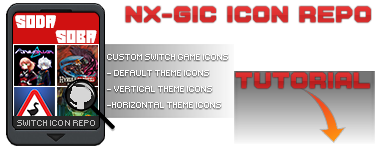
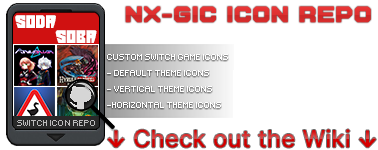
wiki & README updated

Changed region(s): [[0.2619, 0.4533, 1.0, 1.0]]

diff --git a/README.md b/README.md
@@ -1,317 +1,3 @@
-![Header](<.screenshots/header.jpg>)
-### Written for nx-gic v1.3.0 ###
+![Header](<.screenshots/SIG1.png>)
 
-:memo: to use this repo correctly you will need to preapare your switch first :memo:
-
-:heavy_check_mark: this entire guide and process only works on atmosphere
-
-:x: sxos will not work :x:
-
-***
-
-**Prerequisite** items recommended for this tutorial:
-
- * Nintendo Switch :video_game:
-   * :one: [Atmosphere](https://github.com/Atmosphere-NX/Atmosphere) -CFW 
-   * :two: [switch-sys-tweak](https://gbatemp.net/threads/custom-game-icons-tutorial-and-sharing-hub-no-forwarders.574675/) -cfw sysmodule/homebrew 
-   * :three: [ftpd](https://github.com/mtheall/ftpd/releases/) -nro/homebrew 
-   * :four: [NXThemesInstaller](https://github.com/exelix11/SwitchThemeInjector/releases/) -nro/homebrew 
-   * :five: [Vertical/Horizontal Theme](https://github.com/hotshotz79/NX-Custom-Game-Icons) -NXTheme/homebrew theme file(s)
-		* :arrow_right_hook: [my vertical themes](https://github.com/sodasoba1/nx-vertical-themes) -optional
-   * :six: [nx-titles-list-dumper](https://github.com/HamletDuFromage/nx-titles-list-dumper/releases) -nro/homebrew (*Pulled with nc-gix 1.3.0*)
- * PC :computer:
-   * :one: [NX-GIC](https://github.com/hotshotz79/NX-Game-Icon-Customizer) -Icon Repo & Transfer tool
-     * :arrow_right_hook: FTP
-	 >![titledump](<.screenshots/nx-gic-rel.png>)
-	 >
-	 >:left_speech_bubble:winSCP is bundled with NXGIC
-
-   
-***
-
-I recommend using the ftp method over mtp as i personally find ftp to be faster, especially when you are bulk transferring custom icons, so that's the method I will be outlining in this tutorial.
-
-Firstly grab [ftpd.nro](https://github.com/mtheall/ftpd/releases/) & [NXThemesInstaller.nro](https://github.com/exelix11/SwitchThemeInjector/releases/download/v-4.6/NXThemesInstaller.nro) and place the nro(s) into `SD:/switch/` both of these are available on the _homebrew appstore!_
-
-![AppStore](<.screenshots/appstore.jpg>)
-
-**atmosphere 0.19.0 a lot changed follow these steps**
-Grab [switch-sys-tweak](https://github.com/p-sam/switch-sys-tweak/actions) - the latest build is usually in `AMS X.XX.X git pull`
-You need to rename the *[sys-tweak.nsp](https://github.com/p-sam/switch-sys-tweak/actions)* to `exefs.nsp` and set up a *[toolbox.json](/setup-00FF747765616BFF.zip)* with the following contents:
-
-`SD:/atmosphere/contents/00FF747765616BFF/toolbox.json`
-
-```
-{
-  "name": "sys-tweak",
-  "tid": "00FF747765616BFF",
-  "requires_reboot": true
-}
-```
->`SD:/atmosphere/contents/00FF747765616BFF/flags/boot2.flag` -empty file
-
-Once you've done that create this folder and contents on your SD card:
-```
-atmosphere/
-    ˪ contents/
-       ˪ 00FF747765616BFF/
-              ˪ flags/
-                  ˪ boot2.flag
-       ˪ exefs.nsp
-       ˪ toolbox.json
-```
-
-I have the toolbox.json & boot.flag pre setup *[here](/setup-00FF747765616BFF.zip)* just copy the contents to the `root` of your sd card `SD:/`
-you will still need to download and to rename the *[sys-tweak.nsp](https://github.com/p-sam/switch-sys-tweak/actions)* to `exefs.nsp`
-
-***
-
-**atmosphere 0.18.0**
-a pre compiled version can be found on GBATEMP to get custom icons working you will need [switch-sys-tweak](https://gbatemp.net/threads/custom-game-icons-tutorial-and-sharing-hub-no-forwarders.574675/page-10#post-9366960) `NSAM` seems to work better if that crashes try the other version
-
-once you have the precompiled sys-tweak place the contents of the archive into 
-```SD:/atmosphere/contents/```
-the folder ```00FF747765616BFF``` should transfer over & look like similar to this:
-
-![SD-contents](<.screenshots/sdcontents1.png>)
->
->`SD:/atmosphere/contents/00FF747765616BFF`
-
-
-***
-
-Grab a horizontal or vertical theme from [Hotshotz79 Custom Game Icons repo](https://github.com/hotshotz79/NX-Custom-Game-Icons) 
- > :arrow_right_hook: or you can use mine [my vertical themes](https://github.com/sodasoba1/nx-vertical-themes)
-
-__vertical__ or __horizontal__
-
-* all - all software screen
-* lock - lockscreen
-* home - homescreen
-
->:left_speech_bubble: I recommend grabbing all 3 types for either theme
-***
-
-make a folder on the `root` of your SD card called ```themes``` if it doesn't already exist
-
-place the 3 ```.nxtheme``` in this folder.
-
-![SD-contents](<.screenshots/sdcontents2.png>)
->
->`SD:/themes`
-
-now launch NXThemes Installer from hbmenu
-
-![SD-contents](<.screenshots/nxthemeinst.jpg>)
-
-follow the setup instructions, *you may need to extract the home menu before being able to install themes*
-
-click ```sdmc:/atmosphere/``` if you have multipleCFW installed
-
-![NXThemes](<.screenshots/nxtheme.jpg>)
-
-Select the theme(s) you want to install
-
-![NXThemes](<.screenshots/nxtheme2.jpg>)
-
-once you've installed the theme(s) you will need to reboot.
-
-![NXThemes](<.screenshots/nxtheme3.jpg>)
-
-congratulations you have now installed the theme(s) now we can start selecting custom icons
-if you haven't already downloaded [NX-GIC](https://github.com/hotshotz79/NX-Game-Icon-Customizer) do that now and we will begin the next step.
-
-***
-
-When you first launch the program you will need to ```scan``` so you can pull the icon repos, there is also an offline method but I won't be going into that here.
-
-![nxgic](<.screenshots/nx-gic.png>)
->:left_speech_bubble: this part will take a while as it's grabbing 2800+ icons
-
-Now lets setup the switch ip for ftp transfers 
->`File > Settings`
->
-> ![ip](<.screenshots/settings.jpg>)
-
-put your switch ip into the box
-
-> ![ip](<.screenshots/ip.jpg>)
->
->:left_speech_bubble:If you are unsure what your switch IP is open up FTPD on your switch, this is also the next step.
-
-open FTPD on your switch from the hbmenu and input the switch ip shown in ftpd into the FTP selection in nx-gic
-![ftpd](<.screenshots/nxftpd.jpg>)
-
-![nxgic](<.screenshots/ftpd1.jpg>)
->:left_speech_bubble: port number isn't required but must be set to `5000` which is the default port for ftpd
-
-
-with ftpd running in nx-gic goto 
-
->`Title IDs > Install NX Title List Dumper (NRO)`
->
->![nxgic-tid](<.screenshots/nx-gic-tid.jpg>)
-
-Follow the instructions on the popup.
-
-![nxgic](<.screenshots/popup1.jpg>)
->:left_speech_bubble: Our Switch IP Should Be here.
-hit `yes` and the process will begin
-
->
->if you want to install manually hit `no` and you'll be taken to [nx-titles-list-dumper](https://github.com/HamletDuFromage/nx-titles-list-dumper/releases) download the and place the .nro into `SD:/switch/`
-
-![yes](<.screenshots/yes.jpg>)
-
-hit `yes` you will get a popup 
-
->![yes-popup](<.screenshots/yes2.jpg>)
->
->:left_speech_bubble: I will Details these steps below
-
-once the nro is transferred  load nx-titles-list-dumper from hbmenu
-
-![nxgic](<.screenshots/nxtitledump.jpg>)
-
->nx-titles-list-dumper
->
->![nxgic](<.screenshots/nxtitledump2.jpg>)
->
->press `[A]` to dump your installed title IDs
->
->into `SD:/titles.csv` once it's `done` 
->
->press `[+]` to exit
-
-once `SD:/titles.csv` is dumped, open ftpd from the hbmenu again
-
-![ftpd](<.screenshots/nxftpd.jpg>)
-
-and hit `ok` in NX-GIC
-
-![ftpd](<.screenshots/ok.jpg>)
-
->:no_entry: :arrow_down_small: *NOTICE* :arrow_down_small: :no_entry:
->
->if the ftp transfer of `titles.csv` fails (mine unfortunately does)
->place `titles.csv` from the `root` of your SD card into the same folder as `NX-Game Icon Customizer.exe` 
->
->![ftpd](<.screenshots/yes3.jpg>)
->
->:no_entry: :arrow_up_small: NOTICE :arrow_up_small: :no_entry:
-
-![cvs-complete](<.screenshots/done2.jpg>)
-
-***
-![nxgic](<.screenshots/auto-nx-gic.jpg>)
-
-Click on `Auto GIC` then from the drop down select the `style` to match your installed theme
-
-in this example I've chosen *vertical*
-
-now nx-gic will match all of the icons found in titles.csv to icons on the repo
-click on `Add All to Output` to add the matching icons to the upload queue
-
->you may notice some icons aren't found or matched this can be due to 1 of 2 reasons
->	
->*	1. The Icon Doesn't exist.
->	2. The title ID you have is different from the title ID on the repo.
->  *	:arrow_right_hook: homebrew forwarders are usually not matched so you will have to manually change the TID in the output section
-  
- you can also add icons individually auto-gic I believe picks the first icon found.
- 
- my repo might have multiple variants for certain games, it might have variations of TID for homebrew between different icons
- 
- you can show icons for just matching IDs by clicking 
- 
- >`Title IDs > show Icons for Installed Games only`
- >
- >![nxgic](<.screenshots/gic-showins.jpg>)
- 
- you may also individually look through each icon folder and use the CSV list to match icons
- by clicking 
- 
- >`title IDs > Show List of Installed Games (CSV)`
- >
- >![nxgic](<.screenshots/showcsv.jpg>)
-
-You can also edit your output before transferring files to the switch
->![nxgic-tidedit](<.screenshots/tid.jpg>)
->
->you can edit titleID in the output section just by copying `CTRL+C` the titleID in the CSVlist and pasting`CTRL+V` the over titleID in output with your new titleID.
->
->:left_speech_bubble:The majority of my repo is based on US TID
->
->if like my output you have a a game with a title you're unsure of, in this example it's Yo-Kai Watch
->you can click on the `view` button and the icon will open and show you the image in the queue
->
->You can set a custom title / Author & Version if you wish.8
- 
-***
-
-when you are happy with your chosen icon(s) click `transfer`
-
->FTPD should be open on your switch
->
->![ftpd](<.screenshots/nxftpd.jpg>)
-
-![nxgic](<.screenshots/nx-gic5.png>)
-
-click ```upload``` and you'll see the switch recieve the files, they're automatically transferred to the correct folders based off the titleID
-in `SD:/atmosphere/contents/[titleid]/icon.jpg`
-
-![nxgic](<.screenshots/ftpd2.jpg>)
-
-once you've finished transferring you can close ftpd 
-
->You may need to reboot for icons to refresh
-
-Here are the results of what we have just done
-
-As you can see Yo-Kai Watch is renamed
-
-![yokai](<.screenshots/yokai.jpg>)
-
-![vTheme](<.screenshots/notice.jpg>)
-
-and check out all your new icons in `all software`
-
-![finished](<.screenshots/done.jpg>)
-
->Title renaming will not sort games in the order by title this is a cosmetic change only.
-
->## :incoming_envelope: feel free to request icons from me via GBATemp :incoming_envelope:##
-> :link:[SodaSoba @ GBATemp](https://gbatemp.net/members/sodasoba.449962/)
-
----
-you can also extract layout.json and use it with other themes using switch theme injector on the pc or exelix online injector
-![finished](<.screenshots/horizontal-home.jpg>)
-
-![finished](<.screenshots/vertical-home.jpg>)
----
-
-   *[DEFAULT ICONS](https://github.com/sodasoba1/NX-Custom-Game-Icons-Horizontal/tree/main/Default)
-   
-   *[HORIZONTAL ICONS](https://github.com/sodasoba1/NX-Custom-Game-Icons-Horizontal/tree/main/Horizontal)
-   
-   *[VERTICAL ICONS](https://github.com/sodasoba1/NSW-Custom-Game-Icons/tree/main/Vertical)
-
-
-Credits & Thanks
-----------------
-
-:link: [cucholix](https://gbatemp.net/members/cucholix.411991/) @ GBATemp for sharing the process to making these work
-
-:link: [p-sam](https://github.com/p-sam) for the *AWESOME* work on switch-sys-tweak
-
-:link: [hotshotz79](https://github.com/hotshotz79) for nx-gic both vert & horizontal themes and reaching out and considering me as a tester for his app
-
-:link: [exelix](https://github.com/exelix11) for the switch themes injector
-
-:link: [mtheall](https://github.com/mtheall) for ftpd
-
-:link: [HamletDuFromage](https://github.com/HamletDuFromage) for [nx-titles-list-dumper](https://github.com/HamletDuFromage/nx-titles-list-dumper/releases) which was a fullfilled request I made on GBATemp
-
-all the atmosphere team for an awesome CFW :link: [Atmosphere](https://github.com/Atmosphere-NX/Atmosphere)
-
-If I've missed you I'm sorry & feel free to get in touch. :incoming_envelope:
+## [WIKI Guide, How to use this repo](https://github.com/sodasoba1/NSW-Custom-Game-Icons/wiki/How-to-use-this-Repo) ##
